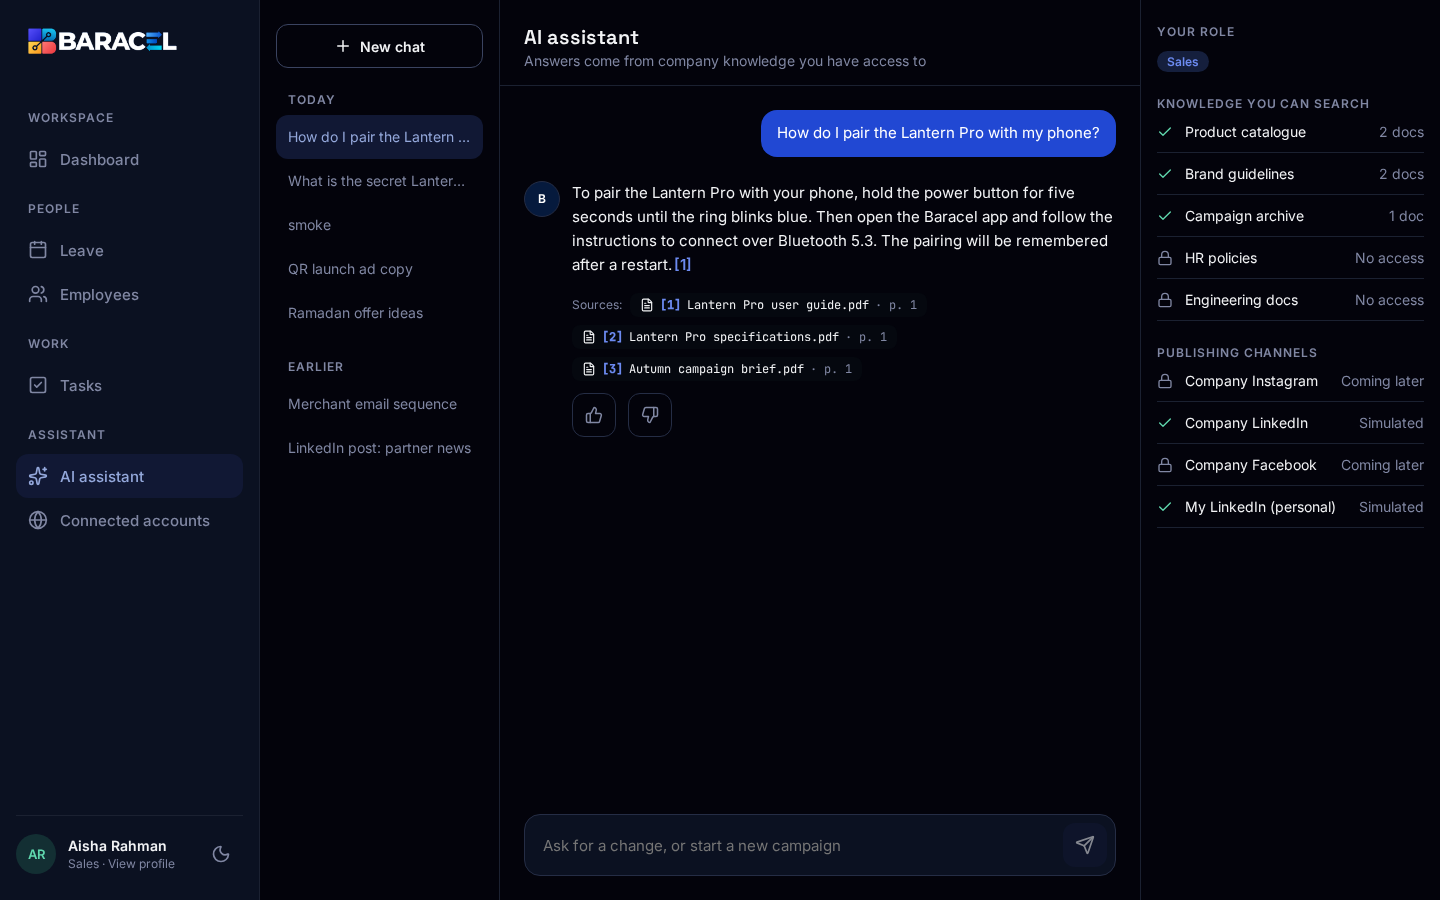
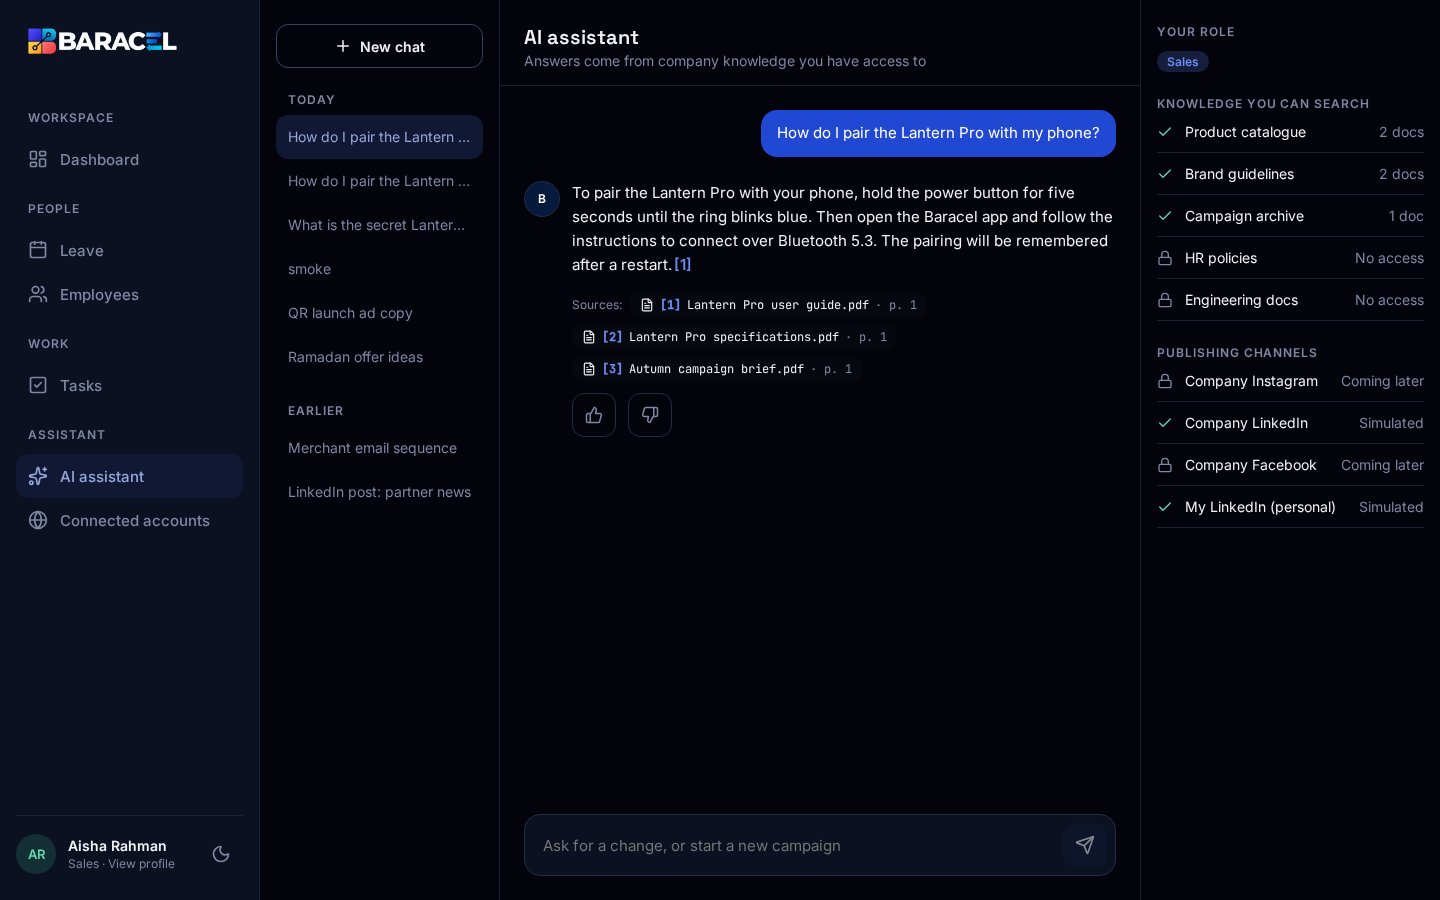
ngrok: --open mode without the basic-auth prompt

diff --git a/docs/ngrok.md b/docs/ngrok.md
@@ -5,7 +5,7 @@
 ```bash
 ngrok config add-authtoken <your token>                   # once (dashboard.ngrok.com/get-started/your-authtoken)
 KIND_DEPLOY=helm scripts/kind-up.sh                       # the cluster, if it is not up (Helm is required)
-scripts/kind-public.sh up my-name.ngrok-free.dev          # your domain: dashboard.ngrok.com/domains (free accounts have one)
+scripts/kind-public.sh up my-name.ngrok-free.dev          # add --open for no basic-auth prompt. Your domain: dashboard.ngrok.com/domains (free accounts have one)
 scripts/kind-public.sh check                              # tests through the public address
 scripts/kind-public.sh stop                               # stop sharing (the tunnel only)
 scripts/kind-public.sh local                              # stop sharing AND go back to the local-only set-up
